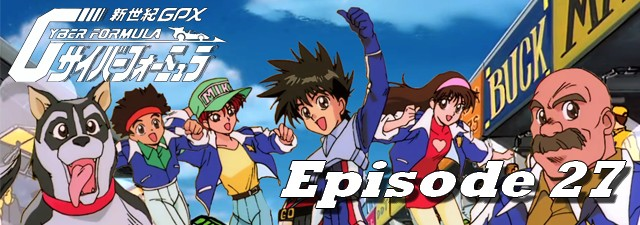
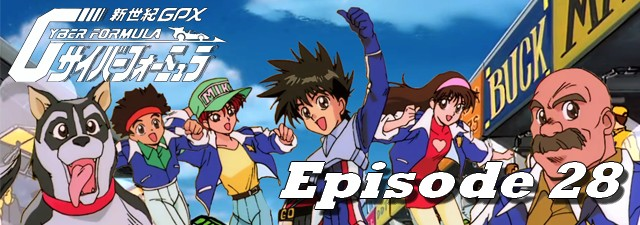
new release

Changed region(s): [[0.4375, 0.6844, 1.0, 0.9644]]

diff --git a/2016-02-29.html b/2016-02-29.html
@@ -1,0 +1,103 @@
+<!DOCTYPE html>
+<html lang="fr-FR">
+	<head>
+		<title>Future GPX Cyber Formula BD 28 vostfr | Nobluesky Fansub</title>
+		<meta charset="utf-8" />
+		<link rel="Shortcut Icon" type="image/x-icon" href="favicon.ico" />
+		<link href="fonts/fonts.css" rel="stylesheet" type="text/css" />
+		<link href="style.css" rel="stylesheet" type="text/css" media="screen" />
+		<link rel="stylesheet" href="menu.css" type="text/css" />
+		<script src="jquery.js" type="text/javascript"></script>
+		<script src="background-script.js" type="text/javascript"></script>
+	</head>
+<body>
+<div class="banner">
+	<a title="Nobluesky Fansub" href="index.html"> <img class="banner" alt="Nobluesky Fansub" title="Nobluesky Fansub" src="images/banner.png"/> </a>
+</div>
+<!-- end banner -->
+<div id="menu-wrapper">
+	<div id="menu">
+		<script type="text/javascript">
+		$( '#menu' ).load( 'menu.html' );
+		</script>
+		<noscript>Activez javascript pour voir le menu!</noscript>
+	</div>
+</div>
+<!-- end #menu -->
+<div id="page-wrapper">
+<div id="sidebar-wrapper">
+	<div id="sidebar">
+		<script type="text/javascript">
+		$( '#sidebar' ).load( 'sidebar.html' );
+		</script>
+	</div>
+	<!-- end #sidebar -->
+</div>
+	<div id="article">
+		<div id="content">
+			<div class="post">
+				<h1 class="title">Future GPX Cyber Formula BD 28 vostfr</h1>
+				<p class="meta"><span class="date">29 Février 2016</span><span class="posted">Posté par <a href="about.html#nobluesky">Nobluesky</a></span></p>
+				<div style="clear: both;">&nbsp;</div>
+				<div class="entry">
+					<img class="post-images" src="images/2016/news11.jpg" alt="" />
+					<p>Bonsoir,</p>
+					<p>Un nouvel épisode, un! Avec même un panty shot discret, ça vous en bouche un coin :P</p>
+					<p>Et effectivement, une pause avec un petit thé, ça ne fait jamais de mal. On ne facture pas la toppissitude ni la séductivité!</p>
+					<p>Comme d'habitude, n'hésitez pas à signaler la moindre erreur qui vous piquerait les yeux.<br>Ayant peu de retours sur mon travail, j'ai parfois du mal à les dénicher. Ben oui, il me faudrait sans doute un check/qcheck, mais c'est un peu la perle rare.</p>
+					<p>PS (pas un spoil) : On est débarassés de Randoll pour les deux épisodes suivants. C'est pas possible les gens comme ça!</p>
+					<p>Bon épisode.</p>
+					<h3>Téléchargements et streaming</h3>
+					<p class="links dl"><a href="" class="button-dl">Jheberg(Upload en cours)</a></p>&nbsp; | &nbsp;
+					<p class="links dl"><a href="" class="button-dl">Rutube(Upload en cours)</a></p>&nbsp; | &nbsp;
+					<p class="links dl"><a href="https://mega.nz/#!DMF0TKBQ!jgziE272XjP9iNpRXeK48mWSLCvWqRjgpxD832uiHP8" class="button-dl">Mega</a></p>
+					<h3>Commentaires</h3>
+					<div id="disqus_thread"></div>
+					<script type="text/javascript">
+						/* * * CONFIGURATION VARIABLES: EDIT BEFORE PASTING INTO YOUR WEBPAGE * * */
+						var disqus_shortname = 'noblueskyfansub'; // required: replace example with your forum shortname
+
+						/* * * DON'T EDIT BELOW THIS LINE * * */
+						(function() {
+							var dsq = document.createElement('script'); dsq.type = 'text/javascript'; dsq.async = true;
+							dsq.src = '//' + disqus_shortname + '.disqus.com/embed.js';
+							(document.getElementsByTagName('head')[0] || document.getElementsByTagName('body')[0]).appendChild(dsq);
+						})();
+					</script>
+					<noscript>Activez javascript pour voir les commentaires.</noscript>
+					<a href="http://disqus.com" class="dsq-brlink">commentaires propulsés par <span class="logo-disqus">Disqus</span></a>
+				</div>
+			</div>
+			<div style="clear: both;">&nbsp;</div>
+		</div>
+		<!-- end #content -->
+		<div style="clear: both;">&nbsp;</div>
+	</div>
+</div>
+<!-- end #page -->
+<script type="text/javascript">
+$(window).scroll(function() {
+    if ($(this).scrollTop() < 1000) {
+        $("#footer").hide();
+    }
+    else {
+        $("#footer").show();
+    }
+});
+$(window).scroll(function() {
+  if ($(this).scrollTop() < 1000) {
+    $("footer").slideUp();
+      }
+  else {
+    $("footer").slideDown();
+      }
+});		
+</script>
+<div id="footer">
+	<script type="text/javascript">
+	$( '#footer' ).load( 'footer.html' );
+	</script>
+</div>
+<!-- end #footer -->
+</body>
+</html>

diff --git a/index.html b/index.html
@@ -35,7 +35,7 @@
 	<div class="slider-wrapper theme-default">
 		<div class="ribbon"></div>
 		<div id="slider" class="nivoSlider">
-			<a href="2016-02-21.html"><img src="images/img02.jpg" alt="" /></a><a href="2016-02-14.html"><img src="images/img01.jpg" alt="" /></a><img src="images/img03.jpg" alt="" />
+			<a href="2016-02-29.html"><img src="images/img01.jpg" alt="" /></a><a href="2016-02-21.html"><img src="images/img02.jpg" alt="" /></a><img src="images/img03.jpg" alt="" />
 		</div>
 	</div>
 <script type="text/javascript">
@@ -63,6 +63,20 @@
 				</div>
 			</div>
 			<div class="post">
+				<h1 class="title"><a href="2016-02-29.html">Future GPX Cyber Formula BD 28 vostfr</a></h1>
+				<p class="meta"><span class="date">29 Février 2016</span><span class="posted">Posté par <a href="about.html#nobluesky">Nobluesky</a></span></p>
+				<p><a href="http://nobluesub.com/2016-02-29.html#disqus_thread">Commentaires</a></p>
+				<div style="clear: both;">&nbsp;</div>
+				<div class="entry">
+					<img class="post-images" src="images/2016/news11.jpg" alt="" />
+					<p>Bonsoir,</p>
+					<p>Un nouvel épisode, un! Avec même un panty shot discret, ça vous en bouche un coin :P</p>
+					<p>Et effectivement, une pause avec un petit thé, ça ne fait jamais de mal. On ne facture pas la toppissitude ni la séductivité!</p>
+					<p>Comme d'habitude, n'hésitez pas à signaler la moindre erreur qui...</p>
+					<p class="links"><a href="2016-02-29.html" class="button">Lire la suite</a></p>
+				</div>
+			</div>
+			<div class="post">
 				<h1 class="title"><a href="2016-02-21.html">Teekyuu Saison 6 Ep 5 à 8 vostfr</a></h1>
 				<p class="meta"><span class="date">21 Février 2016</span><span class="posted">Posté par <a href="about.html#nobluesky">Nobluesky</a></span></p>
 				<p><a href="http://nobluesub.com/2016-02-21.html#disqus_thread">Commentaires</a></p>
@@ -84,7 +98,7 @@
 					<img class="post-images" src="images/2016/news9.jpg" alt="" />
 					<p>Ma mère-grand, que vous avez de longs délais !</p>
 					<p>C'est pour mieux sous-titrer, mon enfant !</p>
-					<p>Cet épisode introduit le personnage le plus insupportable que je connaisse. Heureusement, il n'est pas là dans tous les épisodes....</p>
+					<p>Cet épisode introduit le personnage le plus insupportable que je connaisse. Heureusement, il n'est pas là dans tous les épisodes...</p>
 					<p class="links"><a href="2016-02-14.html" class="button">Lire la suite</a></p>
 				</div>
 			</div>
@@ -112,19 +126,6 @@
 					<p>Une finale de Cyber Formule cette fois, et une étape de franchie dans la série!</p>
 					<p>Je vous souhaite un bon épisode....</p>
 					<p class="links"><a href="2016-01-31.html" class="button">Lire la suite</a></p>
-				</div>
-			</div>
-			<div class="post">
-				<h1 class="title"><a href="2016-01-25.html">Teekyuu Saison 5 Ep 9 à 12 vostfr</a></h1>
-				<p class="meta"><span class="date">25 Janvier 2016</span><span class="posted">Posté par <a href="about.html#nobluesky">Nobluesky</a></span></p>
-				<p><a href="http://nobluesub.com/2016-01-25.html#disqus_thread">Commentaires</a></p>
-				<div style="clear: both;">&nbsp;</div>
-				<div class="entry">
-					<img class="post-images" src="images/2016/news6.jpg" alt="" />
-					<p>Bonjour à tous,</p>
-					<p>Voici la fin de la saison 5 de Teekyuu, mais il y a encore la 6 et la 7 à suivre!</p>
-					<p>Je vous donne donc rendez-vous bientôt pour le début de la saison 6, peut-être avec un petit délai le temps de me réorganiser...</p>
-					<p class="links"><a href="2016-01-25.html" class="button">Lire la suite</a></p>
 				</div>
 			</div>
 			<div id="button-page-wrapper">

diff --git a/page2.html b/page2.html
@@ -31,7 +31,7 @@
 	<div class="slider-wrapper theme-default">
 		<div class="ribbon"></div>
 		<div id="slider" class="nivoSlider">
-			<a href="2016-02-21.html"><img src="images/img02.jpg" alt="" /></a><a href="2016-02-14.html"><img src="images/img01.jpg" alt="" /></a><img src="images/img03.jpg" alt="" />
+			<a href="2016-02-29.html"><img src="images/img01.jpg" alt="" /></a><a href="2016-02-21.html"><img src="images/img02.jpg" alt="" /></a><img src="images/img03.jpg" alt="" />
 		</div>
 	</div>
 <script type="text/javascript">
@@ -50,6 +50,19 @@
 </div>
 	<div id="feed">
 		<div id="content">
+			<div class="post">
+				<h1 class="title"><a href="2016-01-25.html">Teekyuu Saison 5 Ep 9 à 12 vostfr</a></h1>
+				<p class="meta"><span class="date">25 Janvier 2016</span><span class="posted">Posté par <a href="about.html#nobluesky">Nobluesky</a></span></p>
+				<p><a href="http://nobluesub.com/2016-01-25.html#disqus_thread">Commentaires</a></p>
+				<div style="clear: both;">&nbsp;</div>
+				<div class="entry">
+					<img class="post-images" src="images/2016/news6.jpg" alt="" />
+					<p>Bonjour à tous,</p>
+					<p>Voici la fin de la saison 5 de Teekyuu, mais il y a encore la 6 et la 7 à suivre!</p>
+					<p>Je vous donne donc rendez-vous bientôt pour le début de la saison 6, peut-être avec un petit délai le temps de me réorganiser...</p>
+					<p class="links"><a href="2016-01-25.html" class="button">Lire la suite</a></p>
+				</div>
+			</div>
 			<div class="post">
 				<h1 class="title"><a href="2016-01-22.html">Future GPX Cyber Formula BD 25 vostfr</a></h1>
 				<p class="meta"><span class="date">22 Janvier 2016</span><span class="posted">Posté par <a href="about.html#nobluesky">Nobluesky</a></span></p>
@@ -99,19 +112,6 @@
 					<p>Je vous présente Teekyuu, projet que j'ai décidé de reprendre à partir de la saison 5.</p>
 					<p>Pour ceux qui ne connaissent pas, c'est un animé court à haute teneur humoristique, et ça change radicalement de la Cyber Formule...</p>
 					<p class="links"><a href="2016-01-06.html" class="button">Lire la suite</a></p>
-				</div>
-			</div>
-			<div class="post">
-				<h1 class="title"><a href="2016-01-05.html">Future GPX Cyber Formula BD 23 vostfr</a></h1>
-				<p class="meta"><span class="date">5 Janvier 2016</span><span class="posted">Posté par <a href="about.html#nobluesky">Nobluesky</a></span></p>
-				<p><a href="http://nobluesub.com/2016-01-05.html#disqus_thread">Commentaires</a></p>
-				<div style="clear: both;">&nbsp;</div>
-				<div class="entry">
-					<img class="post-images" src="images/2016/news1.jpg" alt="" />
-					<p>Bonne année à tous!</p>
-					<p>Nous sommes le 5 Janvier, je m'en fiche! Mieux vaut tard que jamais!</p>
-					<p>Je vous souhaite donc une super année, la santé avant tout (c'est super important), et plein de trucs Japonais cools dans votre vie, notamment des animés...</p>
-					<p class="links"><a href="2016-01-05.html" class="button">Lire la suite</a></p>
 				</div>
 			</div>
 			</div>

diff --git a/future-gpx-cyber-formula.html b/future-gpx-cyber-formula.html
@@ -183,6 +183,11 @@
 					<p class="links dl"><a href="http://jheberg.net/captcha/fgpxcf-27-vostfr-bd/" class="button-dl">Jheberg</a></p>&nbsp; | &nbsp;
 					<p class="links dl"><a href="http://rutube.ru/video/19f0c28e21621df5c278b3190df33318/" class="button-dl">Rutube</a></p>&nbsp; | &nbsp;
 					<p class="links dl"><a href="https://mega.nz/#!qdVgVYIA!t8AgLChHUXhy1em5Vc0twYlIIsZKyv7Xro-yM-R881o" class="button-dl">Mega</a></p>
+					<br>
+					Episode 28 : 
+					<p class="links dl"><a href="" class="button-dl">Jheberg(Upload en cours)</a></p>&nbsp; | &nbsp;
+					<p class="links dl"><a href="" class="button-dl">Rutube(Upload en cours)</a></p>&nbsp; | &nbsp;
+					<p class="links dl"><a href="https://mega.nz/#!DMF0TKBQ!jgziE272XjP9iNpRXeK48mWSLCvWqRjgpxD832uiHP8" class="button-dl">Mega</a></p>
 					
 					<h4>Version SD (640x480) non remasterisée (abandonnée)</h4>
 					Episode 01 : 

diff --git a/about.html b/about.html
@@ -56,7 +56,7 @@
 					<h4>Traduisez-vous depuis le Japonais ou depuis l'Anglais?</h4>
 					<p>Les traductions sont effectuées depuis la vosta, de même que la plupart des équipes françaises.</p>
 					<h4>Quels formats de vidéo proposez-vous?</h4>
-					<p>Un seul, le .mp4 (x264 8Bits AAC) pour assurer une compatibilité maximale avec tous les appareils.</p>
+					<p>Un seul, le .mp4 (h264 8Bits AAC) pour assurer une compatibilité maximale avec tous les appareils.</p>
 					<h4>Y aura-t-il des publicités ou une collecte de dons sur votre site?</h4>
 					<p>Non, il n'y aura jamais de publicité, c'est une question de principe. Vous êtes même encouragés à utiliser Adblock! Quant aux dons, étant donné l'activité modeste de ce site, ils n'ont pas de raison d'être.</p>
 					<h1 id="mentionslegales" style="text-align: center;" >Mentions Légales/DCMA</h1>

diff --git a/archives.html b/archives.html
@@ -40,15 +40,16 @@
 				<h1 class="title"  style="text-align: center;" >Archives</h1>
 				<div style="clear: both;">&nbsp;</div>
 				<div class="entry">
-					<!--	<h3 style="text-align: center;" >2016</h3>
+					
+					<h3 style="text-align: center;" >2016</h3>
 					<input class="spoilerbutton" type="button" value="Voir" onclick="this.value=this.value=='Voir'?'Cacher':'Voir';"><div class="spoiler">
 					<div>
-					<!-- here comes spoiler content --break>
+					<!-- here comes spoiler content -->
 					<div style="clear: both;">&nbsp;</div>
 					<p><a href="2016-01-05.html" target="_blank" >Future GPX Cyber Formula BD 23 vostfr</a></p>
-					<!-- end spoiler content --break>
+					<!-- end spoiler content -->
 					</div>
-					</div>	-->
+					</div>
 					
 					
 					<h3 style="text-align: center;" >2015</h3>

diff --git a/sidebar.html b/sidebar.html
@@ -1,4 +1,4 @@
-<!DOCTYPE html>
+<!DOCTYPE html>
 <html lang="fr-FR">
 <head>
 <meta charset="utf-8" />
@@ -29,9 +29,9 @@
 		<li>
 			<h2>Avancements</h2>
 			<ul>
-				<li>Future GPX Cyber Formula BD 28 : 80%
+				<li>Future GPX Cyber Formula BD 28 : 100%
 					<div class="progress-bar blue stripes" title="Progression" >
-					<span style="width: 80%"></span>
+					<span style="width: 100%"></span>
 					</div>
 				</li>
 				<li>Teekyuu 6 Ep 5 à 8 : 100%
